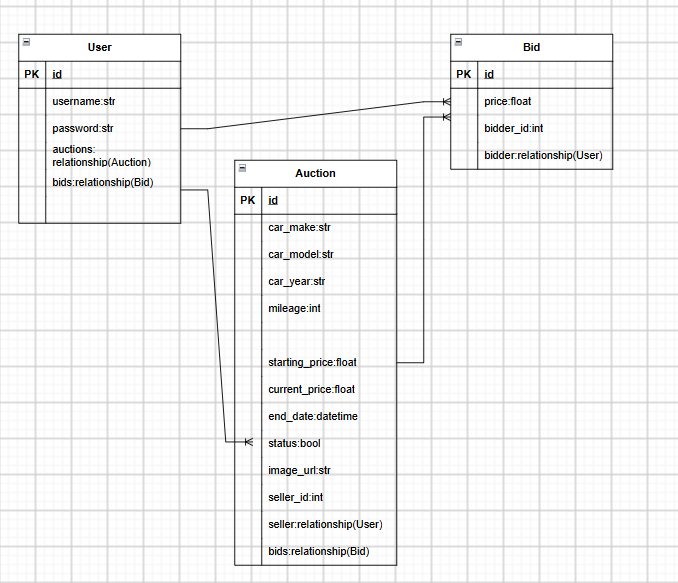
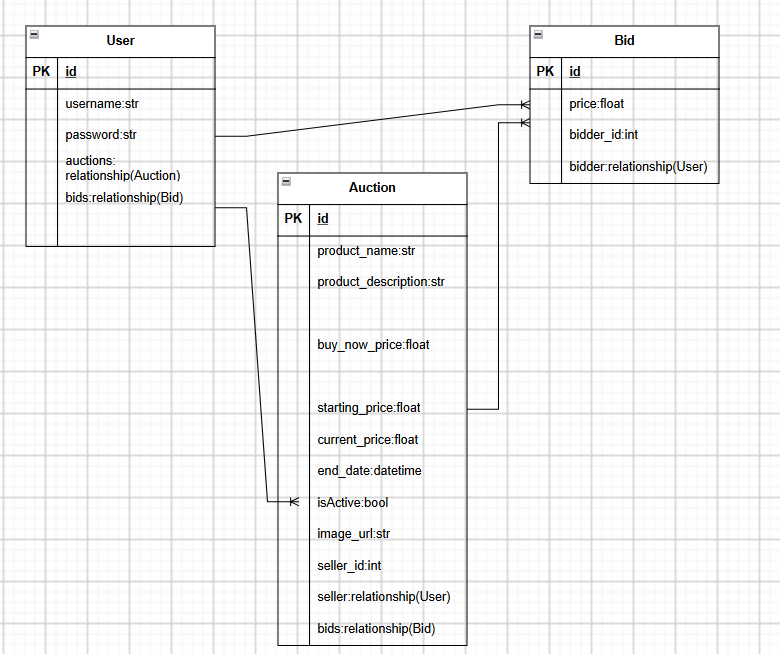
change ReadME

diff --git a/README.md b/README.md
@@ -1,12 +1,12 @@
-# CarBid - Live Car Auctions
+# BidUp - Live Auctions
 
-### A platform that allows users to put up an auction for a car and allows other users to bid for the duration of the auction.
+### A platform that allows users to put up an auction for a product and allows other users to bid for the duration of the auction.
 
   
 
 ## User Stories
 
-* As a User, i want to be able to put up a car of mine for auction
+* As a User, i want to be able to put up a product of mine for auction
 
 * As a User, i want to be able to set a starting price for each auction
 
